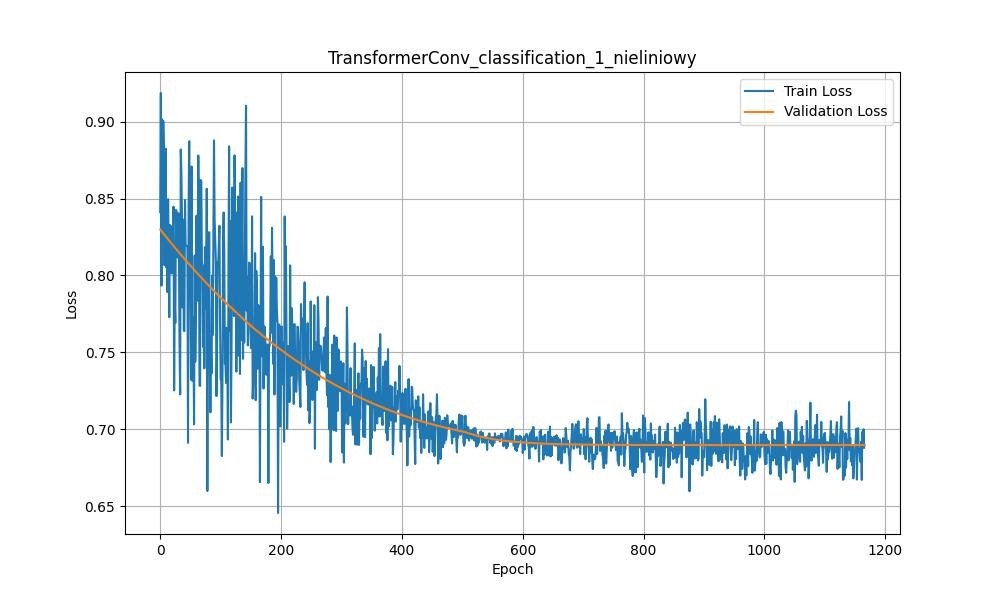
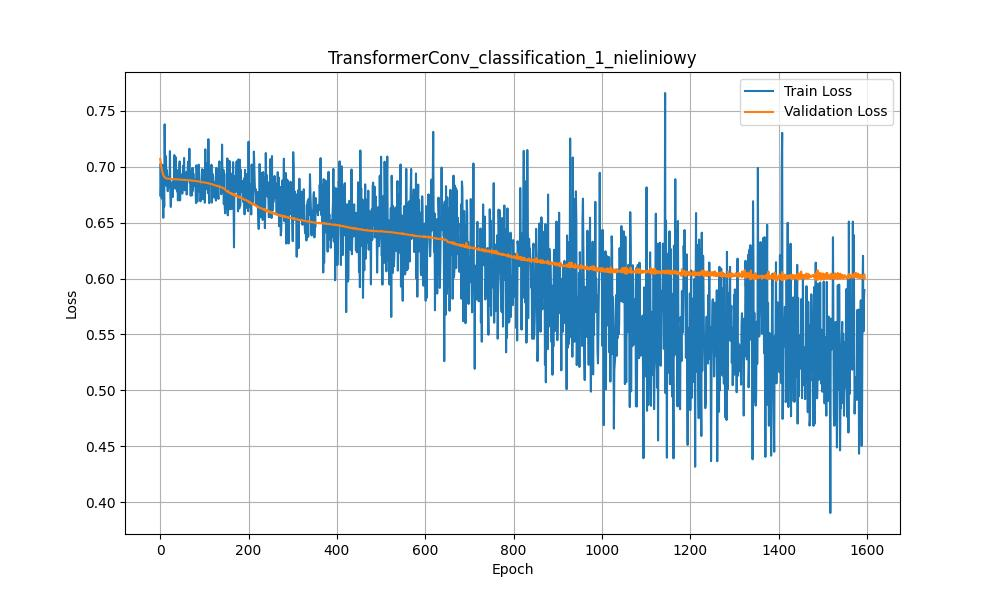
sss

diff --git a/Zadanie 3/src/main.py b/Zadanie 3/src/main.py
@@ -76,23 +76,23 @@ class FaceIDModel(pl.LightningModule):
 
         if self.task_type == 'classification':
             y = y.squeeze().long()
-            ce_loss = nn.CrossEntropyLoss()(y_hat, y)
+            loss = nn.CrossEntropyLoss()(y_hat, y)
             
-            l2_reg = torch.tensor(0., device=y_hat.device)
-            for param in self.parameters():
-                l2_reg += torch.norm(param, 2)
+            # l2_reg = torch.tensor(0., device=y_hat.device)
+            # for param in self.parameters():
+            #     l2_reg += torch.norm(param, 2)
             
-            loss = ce_loss + reg_lambda * l2_reg
+            # loss = ce_loss + reg_lambda * l2_reg
 
         elif self.task_type == 'regression':
             y = y.squeeze().float()
-            mse_loss = nn.MSELoss()(y_hat, y)
+            loss = nn.MSELoss()(y_hat, y)
             
-            l2_reg = torch.tensor(0., device=y_hat.device)
-            for param in self.parameters():
-                l2_reg += torch.norm(param, 2)
+            # l2_reg = torch.tensor(0., device=y_hat.device)
+            # for param in self.parameters():
+            #     l2_reg += torch.norm(param, 2)
             
-            loss = mse_loss + reg_lambda * l2_reg
+            # loss = mse_loss + reg_lambda * l2_reg
 
         # if self.task_type == 'classification':
         #     # y_hat = (y_hat > 0.5).long()
@@ -214,8 +214,8 @@ def train_model(model, modelname):
 def main_transformer_conv() -> None:
 
     EMBEDDINGS:     list  = [1,2]
-    LINEAR_REGRESSION:   list  = [True,False]
-    MODEL_NAME:     list  = ["classification", "regression"]
+    LINEAR_REGRESSION:   list  = [True, False]
+    MODEL_NAME:     list  = ["regression"]
 
     for model_name_id in MODEL_NAME:
         # loop_count: int = len(LINEAR_REGRESSION) if model_name_id == "regression" else 1
@@ -490,13 +490,13 @@ def generate_decision_boundary(test_loader, model, embedding_size, model_name):
 
             out = model.model.mlp(grid_tensor)
 
-            # Obsługa różnych wariantów wyjścia modelu:
-            if out.shape[1] == 1:
-                # Jeśli pojedynczy neuron (zakładamy, że już przez Sigmoid -> [0,1])
-                probs = out.squeeze(1).cpu().numpy()
-            else:
-                # Jeśli dwa neurony, stosujemy softmax i wybieramy prawdopodobieństwo klasy 1.
-                probs = torch.softmax(out, dim=-1)[:, 1].cpu().numpy()
+            # # Obsługa różnych wariantów wyjścia modelu:
+            # if out.shape[1] == 1:
+            #     # Jeśli pojedynczy neuron (zakładamy, że już przez Sigmoid -> [0,1])
+            #     probs = out.squeeze(1).cpu().numpy()
+            # else:
+            #     # Jeśli dwa neurony, stosujemy softmax i wybieramy prawdopodobieństwo klasy 1.
+            probs = torch.softmax(out, dim=-1)[:, 1].cpu().numpy()
 
         plt.figure(figsize=(8, 6))
         # Rozdzielamy punkty: klasa 0 na y=0, klasa 1 na y=1
@@ -524,7 +524,7 @@ def generate_decision_boundary(test_loader, model, embedding_size, model_name):
         plt.ylim([-0.2, 1.2])
         plt.grid(True)
         plt.legend()
-        plt.savefig(CSV_PATH + f"/Decision_Boundary_{model_name}_{embedding_size}.jpg")
+        plt.savefig(CSV_PATH + f"/Decision_Boundary_{model_name}.jpg")
     else:
         # Generujemy siatkę
         margin = 1.0
@@ -550,14 +550,14 @@ def generate_decision_boundary(test_loader, model, embedding_size, model_name):
             #     out = fc2(out)
             # out = out
 
-            # Sprawdzamy wymiar wyjścia
-            if out.shape[1] == 1:
-                # Binary classification z pojedynczym wyjściem (Sigmoid)
-                preds = (out >= 0.5).long().squeeze(dim=-1)
-            else:
-                # Binary classification (2 wyjścia) lub multi-class
-                preds = torch.softmax(out, dim=-1).argmax(dim=-1)
-                print(preds)
+            # # Sprawdzamy wymiar wyjścia
+            # if out.shape[1] == 1:
+            #     # Binary classification z pojedynczym wyjściem (Sigmoid)
+            #     preds = (out >= 0.5).long().squeeze(dim=-1)
+            # else:
+            #     # Binary classification (2 wyjścia) lub multi-class
+            preds = torch.softmax(out, dim=-1).argmax(dim=-1)
+            print(preds)
 
             preds = preds.cpu().numpy()
 
@@ -577,7 +577,7 @@ def generate_decision_boundary(test_loader, model, embedding_size, model_name):
         plt.xlabel("Feature 1")
         plt.ylabel("Feature 2")
         plt.colorbar(ticks=[0,1], label="Class")
-        plt.savefig(CSV_PATH + f"/Decision_Boundary_{model_name}_{embedding_size}.jpg")
+        plt.savefig(CSV_PATH + f"/Decision_Boundary_{model_name}.jpg")
 
 
 def plot_regression_function(test_loader, model, embedding_size, model_name):

diff --git a/Zadanie 3/src/model.py b/Zadanie 3/src/model.py
@@ -4,7 +4,7 @@ from torch_geometric.nn import GCNConv, TransformerConv, global_mean_pool
 
 
 class GNNModelClassification(nn.Module):
-    def __init__(self, linear, embedding: int = 32, dropout_rate: float = 0.5):
+    def __init__(self, linear, embedding: int = 32):
         super(GNNModelClassification, self).__init__()
 
         self.conv1 = TransformerConv(in_channels=9, out_channels=16)
@@ -16,11 +16,10 @@ class GNNModelClassification(nn.Module):
             self.fc1 = nn.Linear(embedding, 2)
             self.fc2 = None
         else:
-            self.fc1 = nn.Linear(embedding, embedding * 2)
-            self.fc2 = nn.Linear(embedding * 2, 2)
+            self.fc1 = nn.Linear(embedding, 32)
+            self.fc2 = nn.Linear(32, 2)
 
         self.relu = nn.ReLU()
-        self.dropout = nn.Dropout(dropout_rate)
 
     def forward(self, data):
         x, edge_index, batch = data.x, data.edge_index, data.batch
@@ -41,13 +40,11 @@ class GNNModelClassification(nn.Module):
         x = self.relu(self.conv1(x, edge_index))
         x = self.relu(self.conv2(x, edge_index))
         x = self.pool(x, batch)
-        x = self.dropout(x)
 
         if self.fc2 is None:
             x = self.fc1(x)
         else:
             x = self.relu(self.fc1(x))
-            x = self.dropout(x)
             x = self.fc2(x)
 
         return x
@@ -71,7 +68,6 @@ class GNNModelClassification(nn.Module):
         x = self.relu(self.conv1(x, edge_index))
         x = self.relu(self.conv2(x, edge_index))
         x = self.pool(x, batch)
-        x = self.dropout(x)
         
         return x
     
@@ -81,7 +77,6 @@ class GNNModelClassification(nn.Module):
             x = self.relu(self.fc1(x_in))
         else:
             x = self.relu(self.fc1(x_in))
-            x = self.dropout(x)
             x = self.fc2(x)
 
         return x
@@ -99,8 +94,8 @@ class GNNModelRegression(nn.Module):
             self.fc1 = nn.Linear(embedding, 1)
             self.fc2 = None
         else:
-            self.fc1 = nn.Linear(embedding, embedding * 2)
-            self.fc2 = nn.Linear(embedding * 2, 1)
+            self.fc1 = nn.Linear(embedding, 32)
+            self.fc2 = nn.Linear(32, 1)
 
         self.relu = nn.ReLU()
         self.output_activation = nn.Identity()
@@ -127,7 +122,7 @@ class GNNModelRegression(nn.Module):
         x = self.pool(x, batch)
 
         if self.fc2 is None:
-            x = self.relu(self.fc1(x))
+            x = self.fc1(x)
         else:
             x = self.relu(self.fc1(x))
             x = self.fc2(x)
